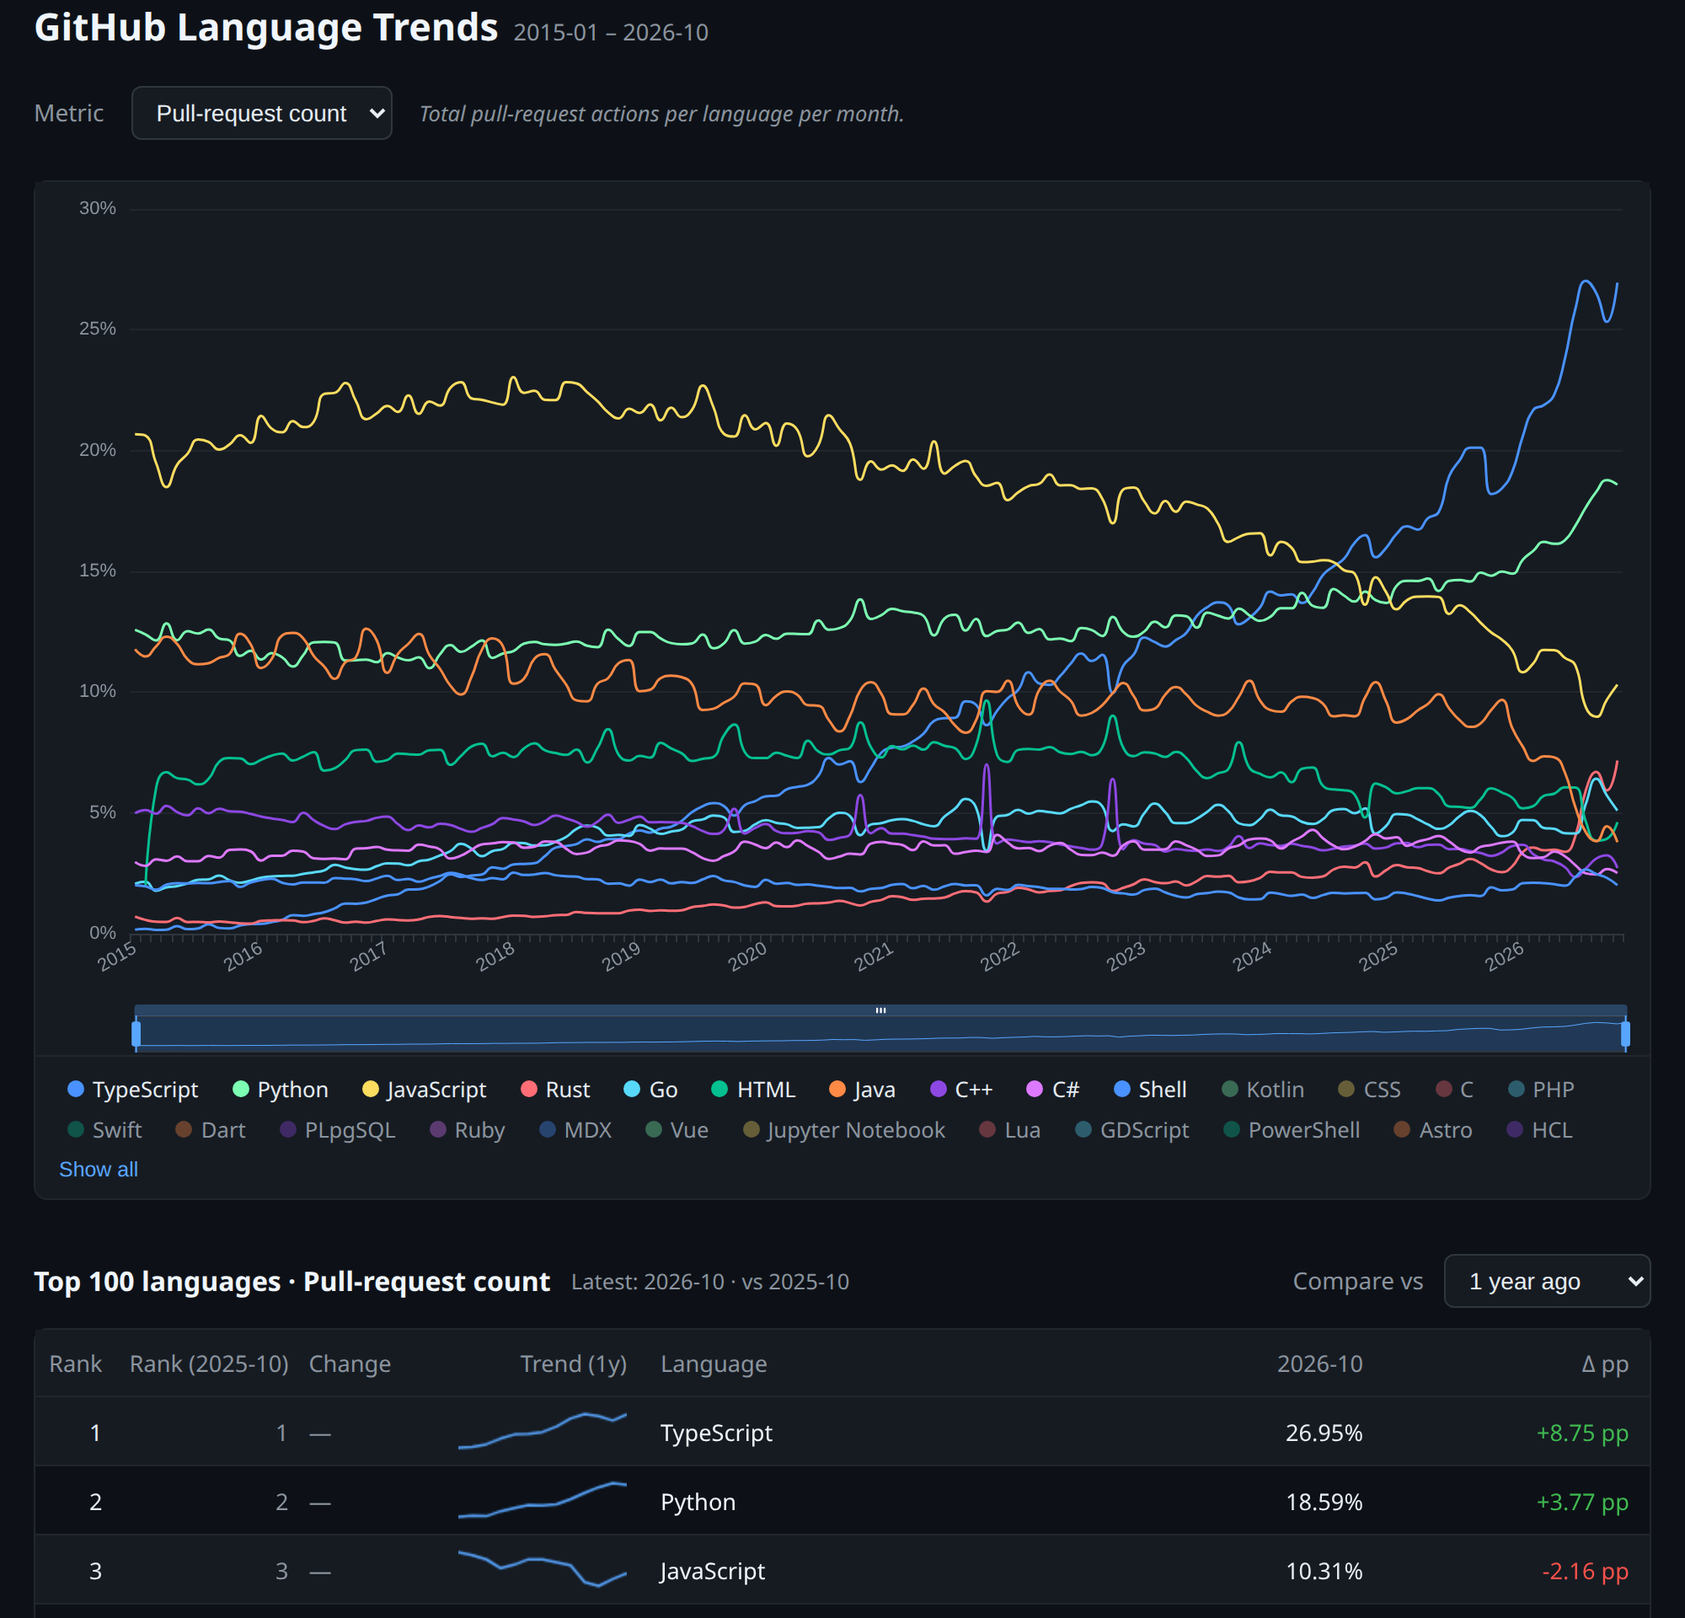
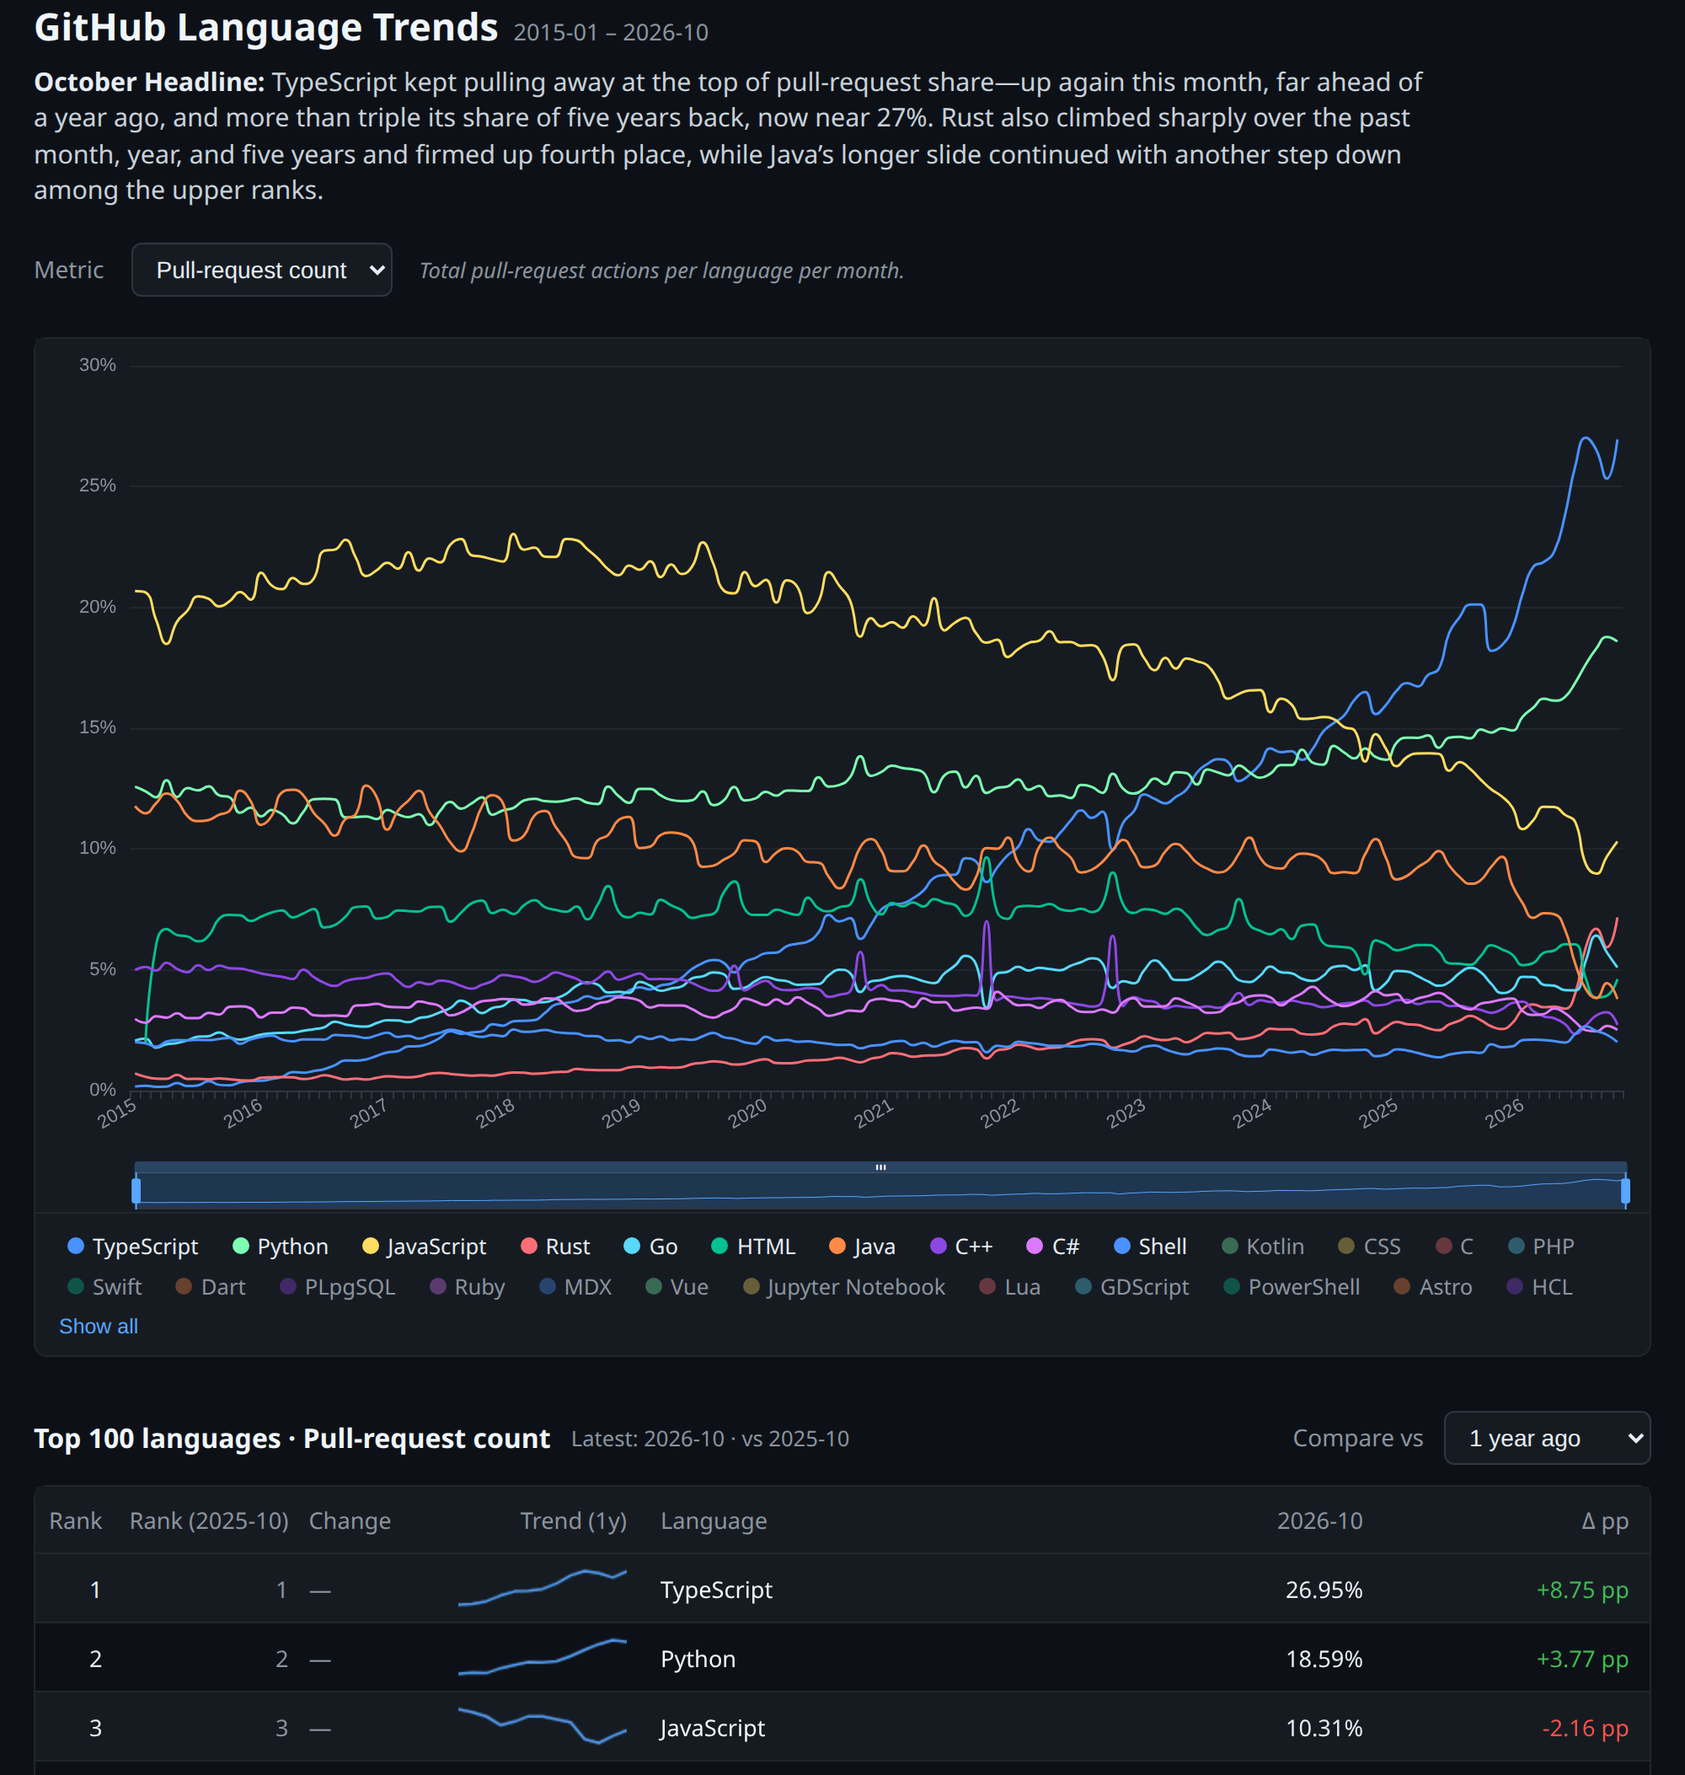
feat: add curated monthly headlines from PR-count trends
Store per-month blurbs in headlines.json, show them under the title for
the zoom-end month, and document agent guidelines for writing them.

diff --git a/index.html b/index.html
@@ -27,12 +27,15 @@
       margin: 0 auto;
     }
 
+    .page-header {
+      margin-bottom: 20px;
+    }
+
     .page-title {
       display: flex;
       align-items: baseline;
       flex-wrap: wrap;
       gap: 0 0.55em;
-      margin-bottom: 20px;
     }
 
     .page-title h1 {
@@ -49,11 +52,32 @@
       white-space: nowrap;
     }
 
+    .monthly-headline {
+      margin-top: 8px;
+      font-size: 0.95rem;
+      line-height: 1.4;
+      color: #c9d1d9;
+      max-width: 52rem;
+    }
+
+    .monthly-headline:empty {
+      display: none;
+    }
+
+    .monthly-headline .headline-label {
+      font-weight: 600;
+      color: #e6edf3;
+    }
+
     @media (max-width: 599px) {
       .page-title {
         flex-direction: column;
         align-items: flex-start;
         gap: 2px;
+      }
+
+      .monthly-headline {
+        font-size: 0.875rem;
       }
     }
 
@@ -521,9 +545,12 @@
 
 <div class="page-wrap">
 
-<div class="page-title">
-  <h1>GitHub Language Trends</h1>
-  <span id="dataRange" class="data-range"></span>
+<div class="page-header">
+  <div class="page-title">
+    <h1>GitHub Language Trends</h1>
+    <span id="dataRange" class="data-range"></span>
+  </div>
+  <p id="monthlyHeadline" class="monthly-headline"></p>
 </div>
 
 <div class="controls">
@@ -696,11 +723,16 @@
 // ── Constants ─────────────────────────────────────────────────────────────────
 
 const DATA_BASE = 'data/stats/language-ratings-all-';
+const HEADLINES_URL = 'data/stats/headlines.json';
 const CHART_LANGUAGES = 50;
 const CHART_DEFAULT_ACTIVE = 10;
 const TABLE_LANGUAGES = 100;
 // Max ▲/▼ glyphs in the Change column; leftover steps shown as +N / -N.
 const RANK_ARROW_MAX = 5;
+const MONTH_NAMES = [
+  'January', 'February', 'March', 'April', 'May', 'June',
+  'July', 'August', 'September', 'October', 'November', 'December',
+];
 
 const METRIC_DESC = {
   'pr-count':     'Total pull-request actions per language per month.',
@@ -728,6 +760,8 @@ let legendSelected = null;
 let zoomStartPct = 0;
 let zoomEndPct = 100;
 let tableZoomTimer = null;
+// Curated month → sentence map from headlines.json (see docs/HEADLINE.md).
+let headlinesByMonth = {};
 
 // ── Controls ──────────────────────────────────────────────────────────────────
 
@@ -828,6 +862,7 @@ function syncTableFromZoom() {
   const endMonth = monthAtZoomEnd(view.months);
   const languages = languagesAtMonth(view.byMonth, endMonth, TABLE_LANGUAGES);
   renderTable(view.months, view.byMonth, languages, endMonth);
+  renderMonthlyHeadline(endMonth);
 }
 
 // ── Render ────────────────────────────────────────────────────────────────────
@@ -844,6 +879,35 @@ function renderAll(records) {
 
   renderChart(months, byMonth, allLanguages.slice(0, CHART_LANGUAGES));
   syncTableFromZoom();
+}
+
+// ── Monthly headline (docs/HEADLINE.md) ───────────────────────────────────────
+
+function monthDisplayName(ym) {
+  const m = Number(ym.slice(5, 7));
+  return MONTH_NAMES[m - 1] ?? ym;
+}
+
+/** Show curated sentence for the zoom-end month; hide when missing. */
+function renderMonthlyHeadline(month) {
+  const el = document.getElementById('monthlyHeadline');
+  const sentence = month ? headlinesByMonth[month] : null;
+  if (!sentence) {
+    el.textContent = '';
+    return;
+  }
+  el.replaceChildren();
+  const strong = document.createElement('span');
+  strong.className = 'headline-label';
+  strong.textContent = `${monthDisplayName(month)} Headline: `;
+  el.append(strong, document.createTextNode(sentence));
+}
+
+async function loadHeadlines() {
+  const response = await fetch(HEADLINES_URL);
+  if (!response.ok) throw new Error(`HTTP ${response.status} for ${HEADLINES_URL}`);
+  const data = await response.json();
+  headlinesByMonth = (data && typeof data === 'object' && !Array.isArray(data)) ? data : {};
 }
 
 // ── Chart ─────────────────────────────────────────────────────────────────────
@@ -1192,6 +1256,7 @@ function clearAll() {
   chart.clear();
   document.getElementById('legend-items').innerHTML = '';
   document.getElementById('dataRange').textContent = '';
+  document.getElementById('monthlyHeadline').textContent = '';
   document.getElementById('tableBody').innerHTML = '';
   document.getElementById('tableTitle').textContent = 'Top 100 languages';
   document.getElementById('tableCaption').textContent = '';
@@ -1200,7 +1265,12 @@ function clearAll() {
 // ── Boot ──────────────────────────────────────────────────────────────────────
 
 document.getElementById('metricDesc').textContent = METRIC_DESC[currentType] ?? '';
-loadAndRender(currentType);
+loadHeadlines()
+  .catch(err => {
+    console.error(err);
+    headlinesByMonth = {};
+  })
+  .finally(() => loadAndRender(currentType));
 </script>
 </body>
 </html>

diff --git a/docs/HEADLINE.md b/docs/HEADLINE.md
@@ -1,0 +1,62 @@
+# Monthly headline
+
+The site shows a curated **monthly headline** under the page title. Headlines are **not** computed in the browser. An agent (or human) writes each month’s blurb during the monthly data update and stores it in [`data/stats/headlines.json`](../data/stats/headlines.json). `index.html` only looks up the entry for the current “as of” month (chart zoom end) and renders it.
+
+## File format
+
+`data/stats/headlines.json` is a single JSON object: keys are `YYYY-MM`, values are the **body only** (no month label prefix) — plain text, one short paragraph:
+
+```json
+{
+  "2026-10": "TypeScript kept pulling away at the top…"
+}
+```
+
+On the page this becomes:
+
+```
+October Headline: TypeScript kept pulling away at the top…
+```
+
+- Add **one new key for every published month** — no gaps. The UI hides the headline only if a key is missing (legacy / error); new months must always have an entry.
+- One editorial blurb per month. The story is always based on **pull-request count** (`pr-count`), not the other site metrics.
+
+## When to write it
+
+During every monthly update (after ratings for month `M` exist):
+
+1. Inspect the top **20** languages on **pull-request count** only (`data/stats/language-ratings-all-pr-count.jsonl`) across **1 month** (`M` vs `M−1`), **1 year** (`M` vs ~`M−12`), and **5 years** (`M` vs ~`M−60`), including the shape of each trend. Do not switch the headline story to pushes, issues, stars, or active-repos.
+2. Follow the guidelines below and write a short paragraph.
+3. Append `"YYYY-MM": "…"` to `data/stats/headlines.json`.
+4. Regenerate the README screenshot (`./scripts/capture_readme_screenshot.sh`) so the hero includes the latest headline.
+
+## Guidelines for agents
+
+These are judgment calls, not a formula. Prefer a readable editorial take over “largest `|Δ pp|` wins.”
+
+1. **Look at three horizons: 1 month, 1 year, 5 years.** Compare ranks and shares for `M` vs `M−1`, vs ~`M−12`, and vs ~`M−60`, and whether the latest month continues, stalls, or reverses those arcs. A quiet month MoM can still be interesting if it sits on a strong 1y or 5y rise or decline; a loud MoM move matters less if it fights a flat or opposite longer trend. The **5-year** view is especially for structural arcs a single year can hide—languages that have been **steadily losing** (or steadily gaining) share for years, former leaders fading, long climbs to dominance. A −2 pp year might look ordinary until the 5y chart shows a continuous grind downward. Use that lens when it changes the story; do not pad every blurb with three deltas. Ignore tiny noise; a 0.1 pp wobble in the long tail is not a headline.
+2. **Weigh absolute and relative change** (on each horizon you cite). A +2 pp move on a ~25% language (e.g. TypeScript) is a smaller *relative* shift than +1 pp on a ~5% language. Prefer the story that is remarkable in context — large languages need bigger absolute moves to feel like news; smaller top-20 languages can headline on a sharper proportional jump or rank shake-up. Neither absolute Δ pp nor relative % change alone decides the headline.
+3. **Watch top-20 entries and exits — but distrust one-month spikes.** Languages that **enter** or **leave** the top 20 between `M−1` and `M` can be more interesting than reshuffles among incumbents. Prefer newcomers/dropouts that look durable (especially a return after absence, or a long-time member leaving). If something looks suspicious — e.g. a language that was nowhere near the top 20 suddenly appearing, or an outsized jump with no prior trend — **do not headline it yet**. Wait a month or two to see whether it sticks; we do not want spike-driven headlines. In the meantime, write the month around steadier stories (or call it quiet).
+4. **Ask what a skimming reader would care about.** Leadership changes, a clear surge or slide among the top languages, top-20 churn, a shake-up in the top 5, or a month that clearly continues (or breaks) a 1y/5y pattern usually beat a slightly larger one-off move further down the list.
+5. **Lead with one story; support briefly.** Open with the main takeaway, then add a little context from the horizons that matter (last month, past year, past five years, a runner-up, or an entry/exit). Do not catalog the whole top 20 or dump a table of Δ pp figures across every window. When the month is **not** a flatline, write only about what moved — do **not** pad with absences (“no newcomers”, “no position changes”, “otherwise steady”). Save “held steady / quiet” language for months that truly are quiet across the horizons that matter.
+6. **Numbers are optional seasoning.** A round figure can help (“about 27%”, “up roughly 1.5 pp this month”, “up several points over the past year”) but the paragraph should still read if the numbers were removed. Do not write spreadsheet output.
+7. **Tone.** Neutral, concise, present-tense or simple past. No hype (“crushes”, “destroys”), no speculation about why (jobs, AI, frameworks) unless it is obvious from the data alone — and even then prefer describing the data. In the **published** text, say “this month”, “over the past year”, “five years ago”—never jargon like “horizons” or “1m/1y/5y”.
+8. **Length.** About **20–100 words** (aim for a short paragraph; hard cap ~100, soft floor ~20). Prefer two or three tight sentences over one overloaded sentence when there is more than one beat. No emoji, no markdown, no trailing hashtags.
+9. **Consistency.** Same style as existing entries in `headlines.json`. Every month gets a headline. If 1m / 1y / 5y all look uneventful for the leaders, say so — a short “quiet month” blurb is correct; skipping the key is not.
+
+### Good directions (examples of intent)
+
+- A sustained leader widening or narrowing the gap (this month, and in 1y / 5y context when it matters)
+- A fast mover in the top 10 whose latest month fits — or breaks — its longer arc
+- A multi-year loser or gainer whose 5y decline/rise is the real story (even if 1m/1y look mild)
+- A language entering or leaving the top 20 (newcomer, return, or long-time exit) after the move looks durable
+- A genuinely quiet month — say that ranking and shares among the leaders held steady
+
+### Avoid
+
+- Auto-picking the max `|Δ pp|` (or max relative %) without asking whether that move is the interesting story
+- Headlining a first-time or never-close top-20 appearance before it persists for another month or two
+- Negating the news in an active month (“no newcomers”, “ranks unchanged”) when there is already a real story to tell
+- Jargon in the public text (“horizons”, “1m/1y/5y”)
+- Basing the headline on a non–pull-request metric, or writing as if the chart’s current metric dropdown selected the story
+- Correcting or rewriting older months unless fixing a factual error

diff --git a/AGENTS.md b/AGENTS.md
@@ -36,10 +36,12 @@ githubstats/
 │   └── stats/language-ratings-{YYYY-MM,all}-<type>.jsonl    # Ratings consumed by the frontend
 ├── docs/                       # Reference docs and sample event payloads
 │   ├── PIPELINE.md             # Pipeline overview, runbook, rating file formats
+│   ├── HEADLINE.md             # Guidelines for writing curated monthly headlines
 │   ├── LANGUAGE_DATA.md
 │   ├── GITHUB_EVENT_TYPES.md
 │   ├── screenshot.png          # README hero image (regenerate after monthly updates)
 │   └── events/{2024,2026}/     # Sample pre/post API-change payloads
+├── data/stats/headlines.json   # Curated month → headline sentences (UI lookup)
 ├── scripts/
 │   └── capture_readme_screenshot.sh  # Regenerates docs/screenshot.png
 ├── index.html                  # Frontend SPA — no build step, open directly in browser
@@ -52,6 +54,7 @@ githubstats/
 - New data files → `data/`, following the existing naming conventions (see below)
 - Reference documentation → `docs/`
 - Frontend changes → `index.html` only (no build tooling)
+- New monthly headline → append to `data/stats/headlines.json` per `docs/HEADLINE.md`
 
 ### Data File Naming Conventions
 
@@ -62,6 +65,7 @@ githubstats/
 | Repo language lookup (gitignored) | `data/repo-languages/repo-languages-YYYY-MM.jsonl` |
 | Per-month rating | `data/stats/language-ratings-YYYY-MM-<type>.jsonl` |
 | Combined all-months rating | `data/stats/language-ratings-all-<type>.jsonl` |
+| Monthly headlines | `data/stats/headlines.json` |
 
 **Valid `<type>` values:** `pr-count`, `issue-count`, `push-count`, `active-repos`, `star-count`
 
@@ -83,13 +87,16 @@ Individual pipeline step examples are documented in `docs/PIPELINE.md`.
 
 ### Monthly data updates
 
-When adding or refreshing a month’s ratings (e.g. via `collect_month.sh` or the pipeline in `docs/PIPELINE.md`), also **republish the README hero screenshot** so the image matches the latest data range:
+When adding or refreshing a month’s ratings (e.g. via `collect_month.sh` or the pipeline in `docs/PIPELINE.md`):
+
+1. **Write the monthly headline** — follow [`docs/HEADLINE.md`](docs/HEADLINE.md), then add a `"YYYY-MM": "…"` entry to [`data/stats/headlines.json`](data/stats/headlines.json). Do **not** invent a formula in `index.html`; the UI only displays curated text. Every month needs an entry (a “quiet month” blurb if nothing moved).
+2. **Republish the README hero screenshot** so the image matches the latest data range and headline:
 
 ```bash
 ./scripts/capture_readme_screenshot.sh
 ```
 
-Commit the updated `docs/screenshot.png` together with the new stats (or in the same monthly update PR).
+Commit the updated stats, `data/stats/headlines.json`, and `docs/screenshot.png` together (or in the same monthly update PR).
 
 ### Key Architecture Patterns
 
@@ -144,6 +151,9 @@ Do not use `file://` — ECharts and `fetch` require HTTP.
 - [ ] Page loads: title, metric control, chart, legend, and table are visible
 - [ ] Title shows the full data range in smaller text (e.g. `2015-01 – 2026-10`);
       on mobile the range stacks under the title
+- [ ] Monthly headline appears under the title for the zoom-end month
+      (e.g. `October Headline: …`) from `data/stats/headlines.json`; every published
+      month should have an entry; updates when the zoom end month changes; independent of metric
 - [ ] No horizontal page overflow; no JS console errors
 - [ ] Chart renders series; legend toggles series on/off
 - [ ] Chart zoom works (slider and/or wheel/pinch); x-axis labels densify when zoomed in

diff --git a/README.md b/README.md
@@ -41,4 +41,4 @@ Five signals use that weighting (or a unit weight for breadth):
 | `active-repos` | Distinct active repos (breadth, not volume) |
 | `star-count` | Stars (WatchEvents) |
 
-More detail: [`docs/LANGUAGE_DATA.md`](docs/LANGUAGE_DATA.md) (language attribution), [`docs/PIPELINE.md`](docs/PIPELINE.md) (tools, runbook, rating file formats).
+More detail: [`docs/LANGUAGE_DATA.md`](docs/LANGUAGE_DATA.md) (language attribution), [`docs/PIPELINE.md`](docs/PIPELINE.md) (tools, runbook, rating file formats), [`docs/HEADLINE.md`](docs/HEADLINE.md) (monthly headline rules).
